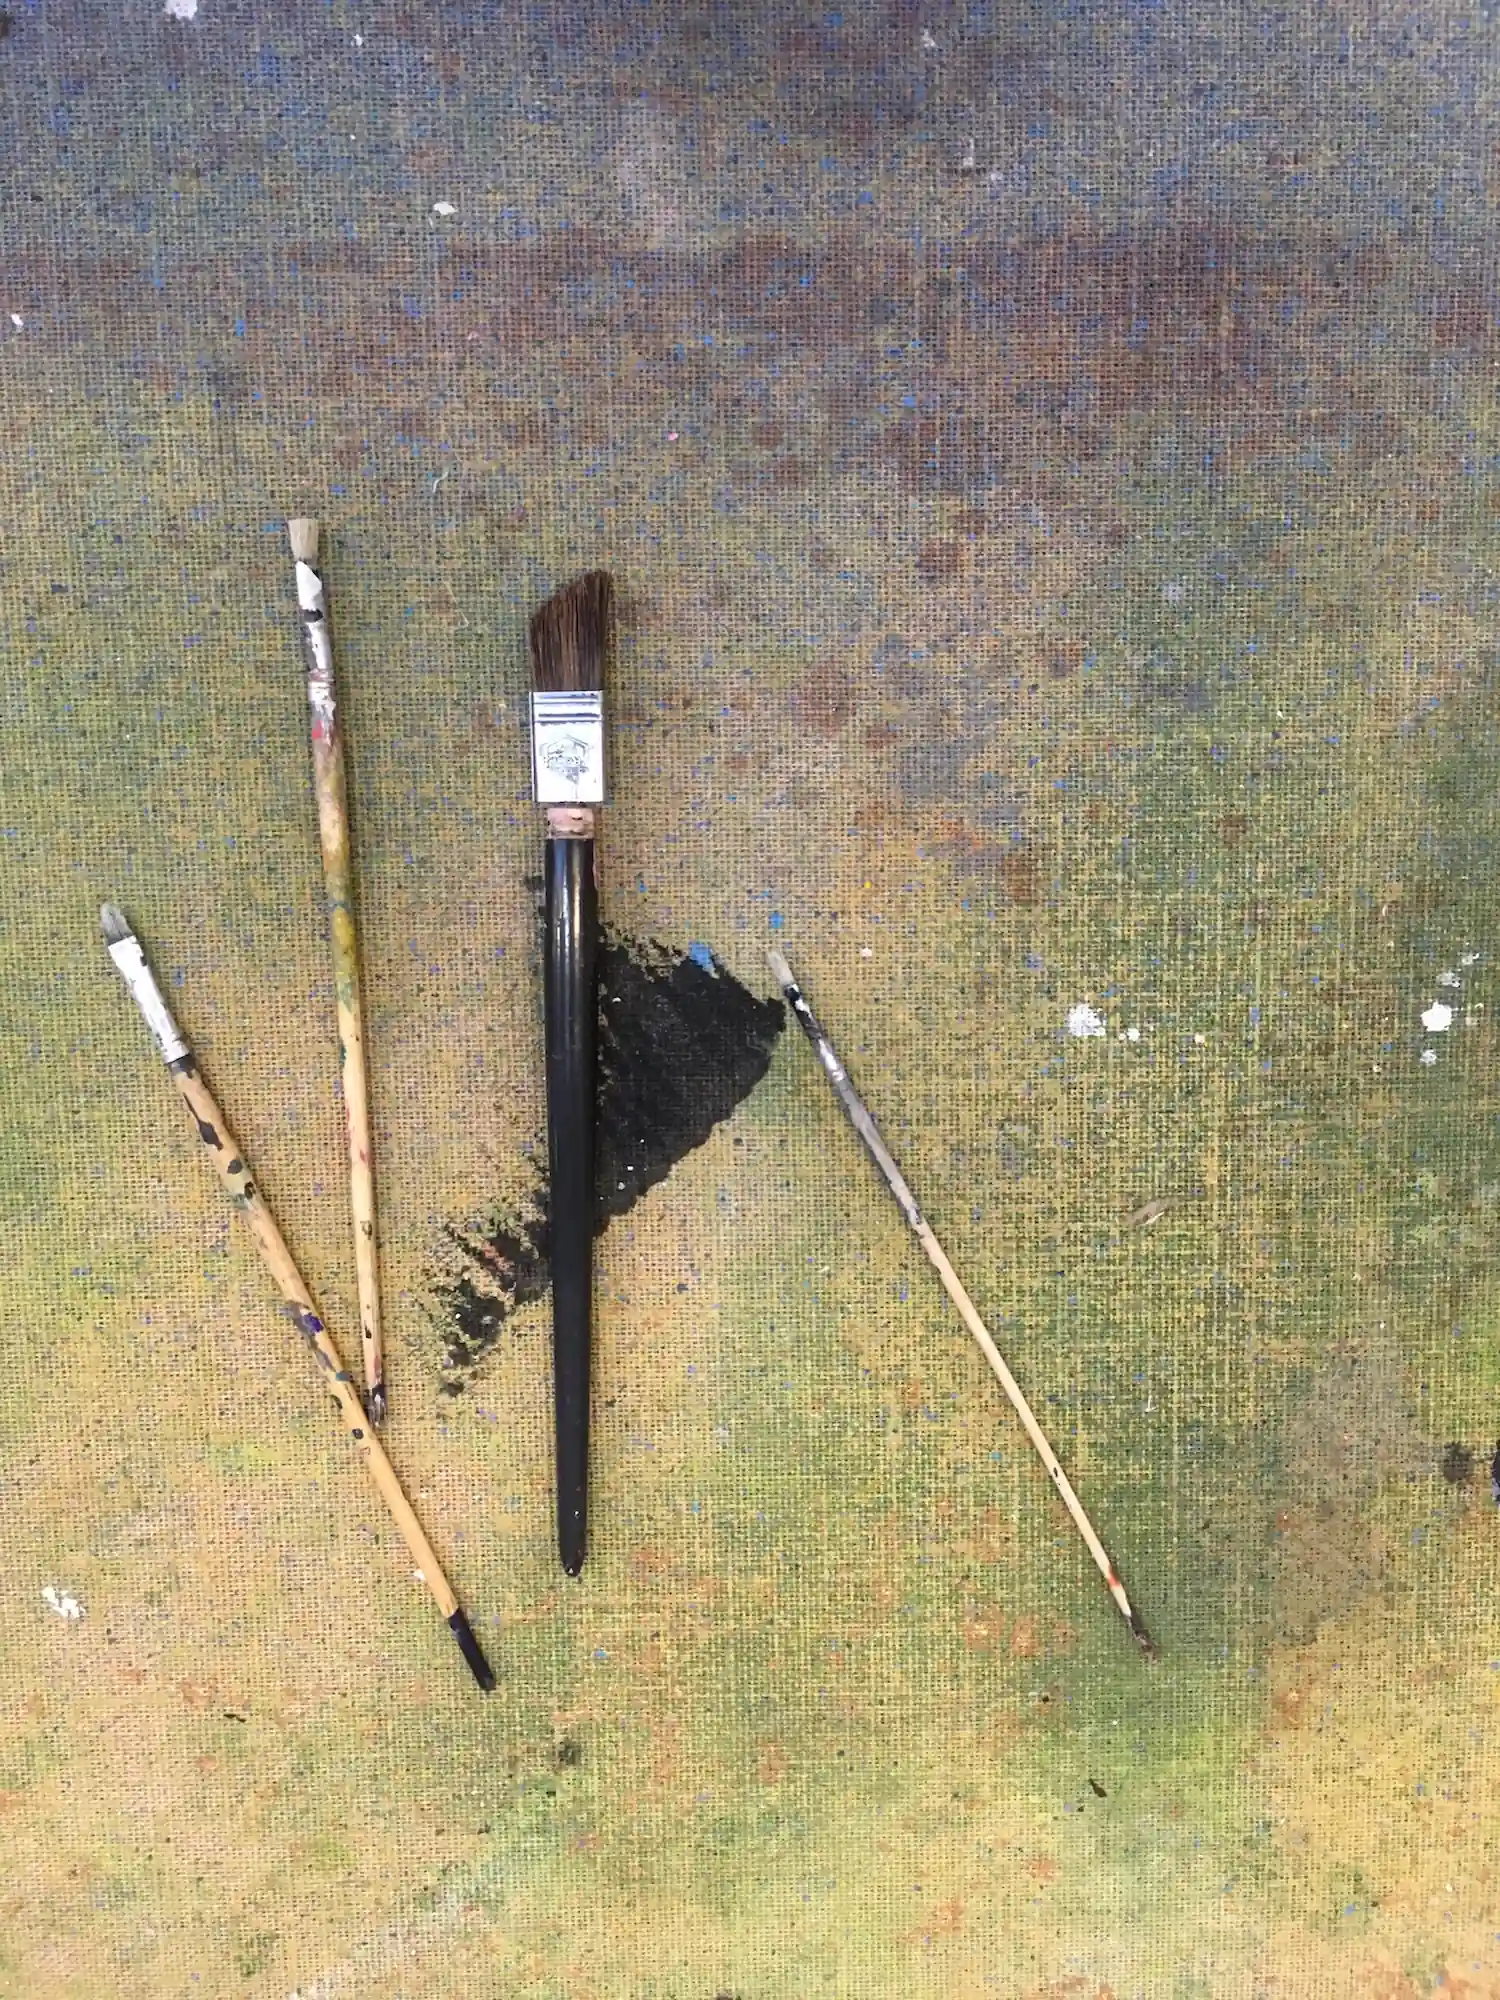
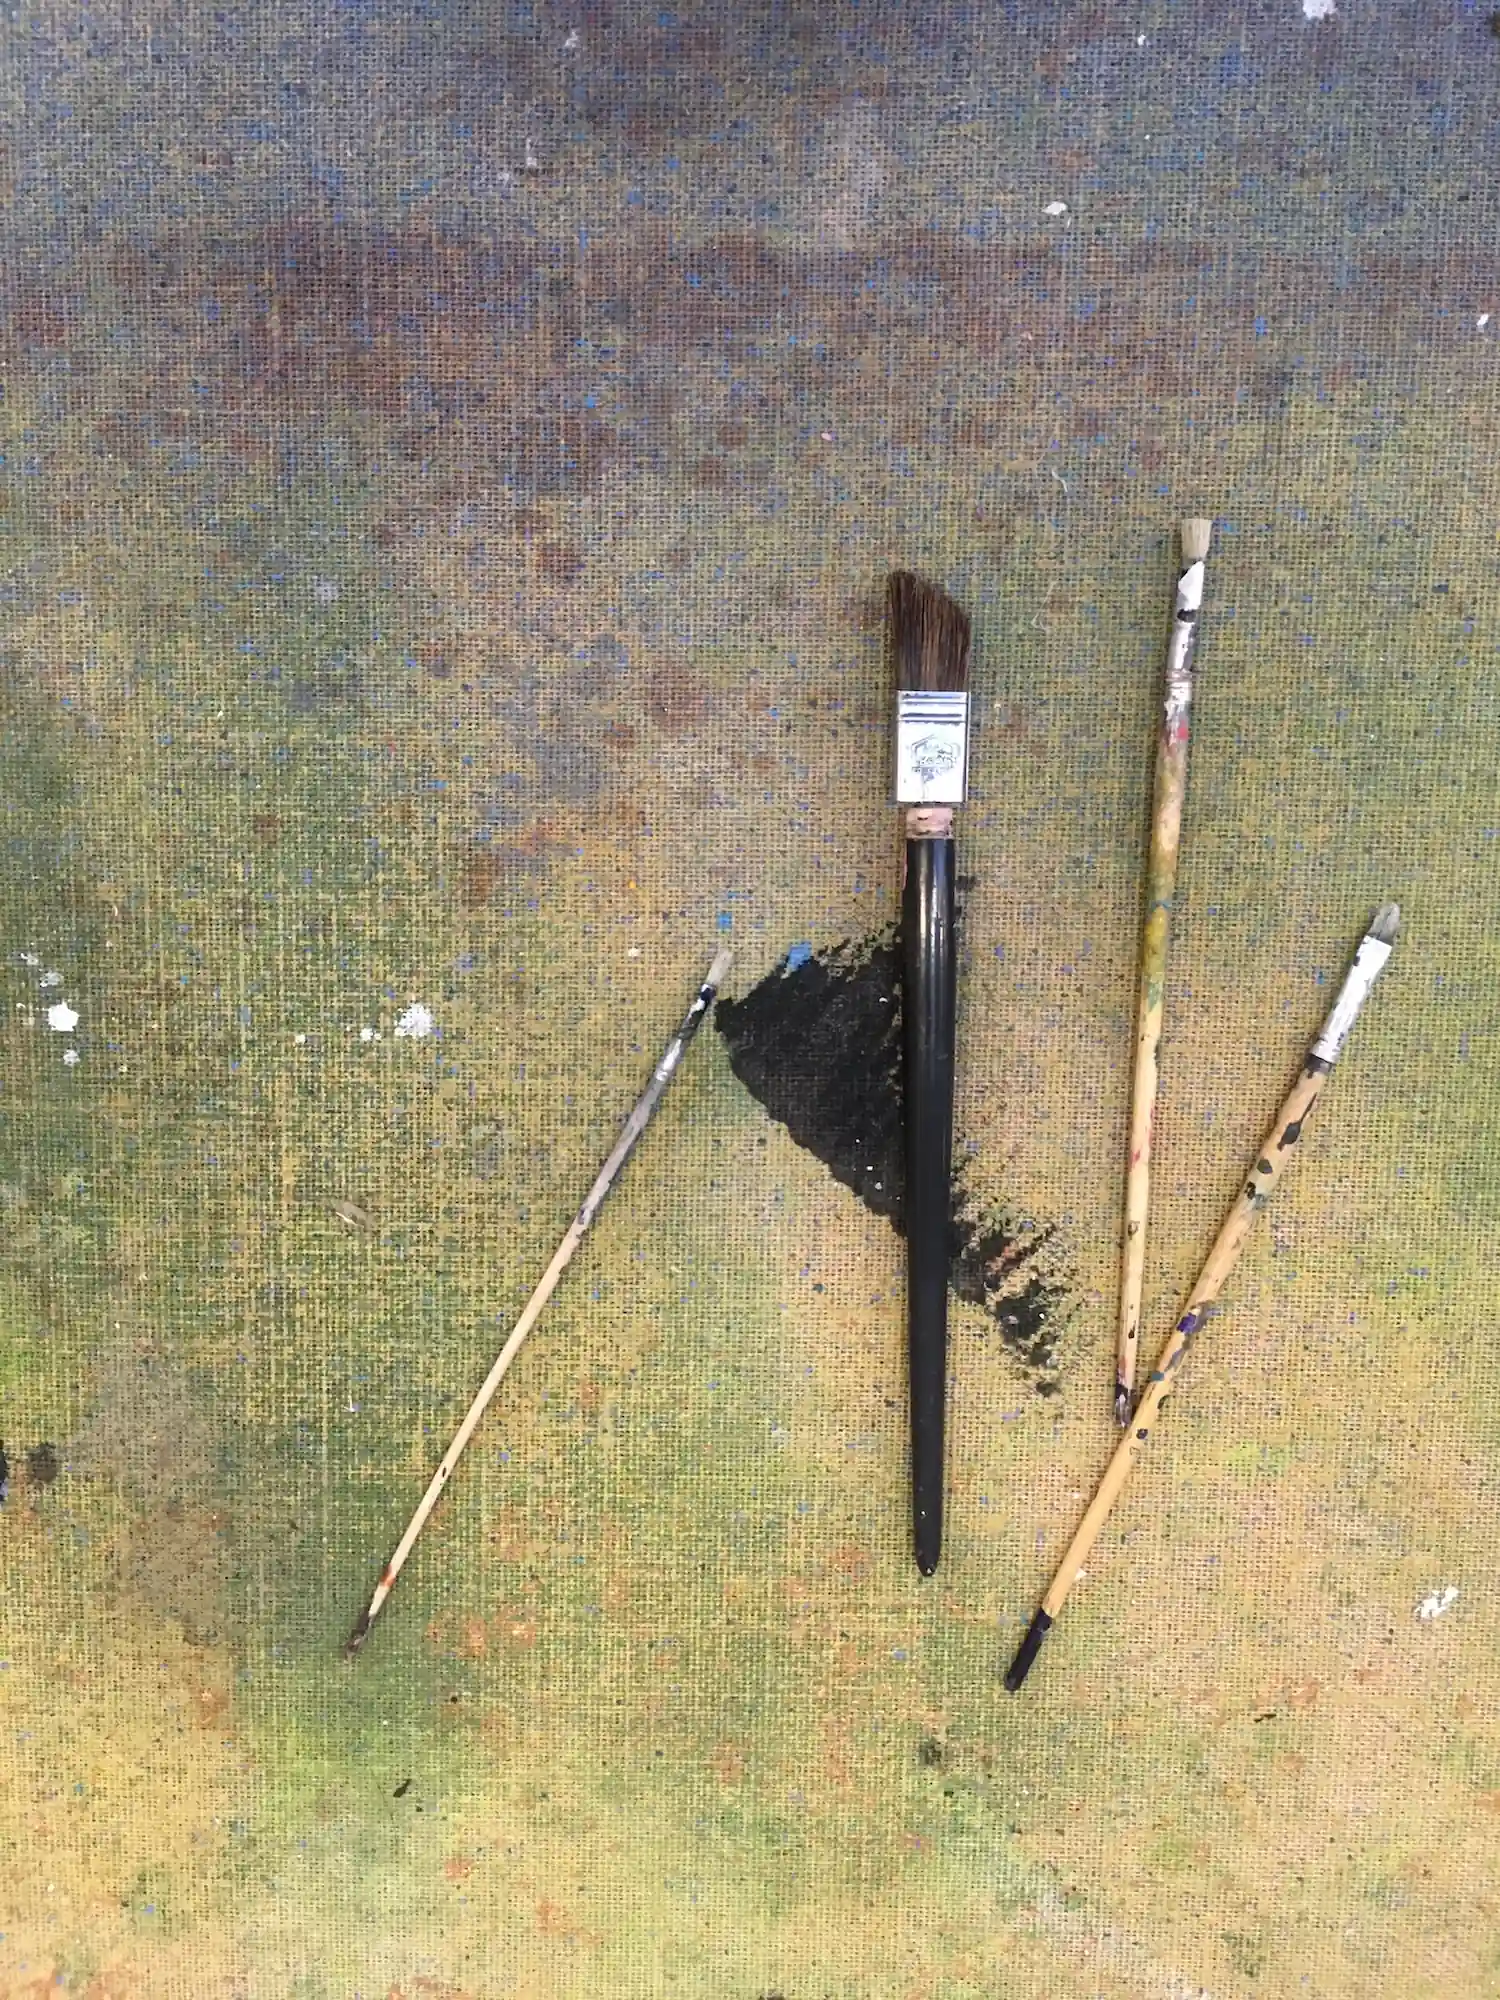
Improve README content, update text and images, fix lightbox issue with figure-based images

diff --git a/styles.css b/styles.css
@@ -46,6 +46,7 @@
   font-weight: 700;
   font-display: swap;
 }
+
 /* ==========================================================
    RESET
    ========================================================== */
@@ -124,7 +125,8 @@ main {
    ========================================================== */
 
 header {
-  position: sticky; /* sticky header stays on top while scrolling */
+  position: sticky;
+  /* sticky header stays on top while scrolling */
   top: 0;
   background-color: white;
   z-index: 100;
@@ -175,6 +177,7 @@ ul li a.active {
   background: #f4edea;
   border: 1px solid rgba(0, 0, 0, 0.05);
 }
+
 .option {
   flex: 1;
   text-align: center;
@@ -265,6 +268,24 @@ ul li a.active {
   }
 }
 
+.dropdown-gallery a {
+  font-size: 0.9rem;
+  opacity: 0.8;
+}
+
+@media (max-width: 767px) {
+
+  .navigation-list {
+    display: flex;
+    flex-direction: column;
+    align-items: center;
+  }
+
+  .navigation-list>li {
+    text-align: center;
+  }
+}
+
 /* ==========================================================
    Dropdown-Gallery
    ========================================================== */
@@ -272,6 +293,7 @@ ul li a.active {
 .has-dropdown-gallery {
   position: relative;
 }
+
 /* dropdown hidden by default */
 .dropdown-gallery {
   display: none;
@@ -306,9 +328,17 @@ ul li a.active {
   .dropdown-gallery {
     display: flex;
     flex-direction: column;
+
     position: static;
+    gap: 0.3rem;
+    margin-top: 0.5rem;
+    padding-left: 0.5rem;
     box-shadow: none;
-    padding-left: 1rem;
+  }
+
+  .dropdown-gallery li a {
+    font-size: 0.9rem;
+    opacity: 0.8;
   }
 }
 
@@ -330,7 +360,7 @@ footer ul li a {
   display: block;
   color: #646464;
   padding: 1rem 3rem;
-    border-radius: 900px;
+  border-radius: 900px;
 }
 
 footer ul li a:hover,
@@ -372,6 +402,7 @@ footer ul li button:hover {
   text-align: left;
   padding-right: clamp(1rem, 6vw, 8rem);
 }
+
 .hero-text-2 {
   text-align: right;
   padding-left: clamp(0rem, 2vw, 4rem);
@@ -432,6 +463,7 @@ footer ul li button:hover {
 }
 
 @media (max-width: 767px) {
+
   .hero,
   .hero-2 {
     gap: 2rem;
@@ -669,10 +701,9 @@ footer ul li button:hover {
 
 .subnav ul {
   display: grid;
-  grid-template-columns: repeat(
-    3,
-    1fr
-  ); /* grid-system with 3 columns for each navigation */
+  grid-template-columns: repeat(3,
+      1fr);
+  /* grid-system with 3 columns for each navigation */
   gap: clamp(0rem, 2vw, 3rem);
   justify-content: center;
 }
@@ -693,6 +724,7 @@ footer ul li button:hover {
 .subnav li:nth-child(1) {
   margin-right: -2rem;
 }
+
 /* move element down */
 .subnav li:nth-child(2) {
   margin-top: clamp(8rem, 15vw, 18rem);
@@ -705,17 +737,17 @@ footer ul li button:hover {
 
 .organic-img-3,
 .organic-img-3 img {
-  border-radius: 44% 56% 59% 41% / 49% 47% 53% 51%;
+  border-radius: 54% 46% 44% 56% / 54% 63% 37% 46%;
 }
 
 .organic-img-4,
 .organic-img-4 img {
-  border-radius: 31% 69% 47% 53% / 44% 47% 53% 56%;
+  border-radius: 57% 43% 52% 48% / 54% 48% 52% 46%;
 }
 
 .organic-img-5,
 .organic-img-5 img {
-  border-radius: 53% 47% 54% 46% / 40% 56% 44% 60%;
+  border-radius: 46% 54% 41% 59% / 60% 54% 46% 40%;
 }
 
 .organic-img-3,
@@ -733,7 +765,8 @@ footer ul li button:hover {
 
 @media (max-width: 767px) {
   .subnav ul {
-    grid-template-columns: 1fr; /* change to 1 column */
+    grid-template-columns: 1fr;
+    /* change to 1 column */
   }
 
   .subnav li:nth-child(1) {
@@ -798,6 +831,7 @@ footer ul li button:hover {
 
 /* 2 columns (tablet) */
 @media (max-width: 1023px) {
+
   #gallery,
   #gallery-abstract-list {
     grid-template-columns: repeat(2, 1fr);
@@ -806,10 +840,12 @@ footer ul li button:hover {
 
 /* 1 column (smartphone) */
 @media (max-width: 767px) {
+
   #gallery,
   #gallery-abstract-list {
     grid-template-columns: 1fr;
   }
+
   .gallery-abstract ul,
   #gallery {
     margin-inline: 3rem;
@@ -853,6 +889,10 @@ footer ul li button:hover {
   border-radius: 4px;
 }
 
+#lightbox figcaption:empty {
+  display: none;
+}
+
 /* ==========================================================
    Lightbox
    ========================================================== */
@@ -865,8 +905,14 @@ footer ul li button:hover {
   padding: 0;
 }
 
-#lightbox img {
+#lightbox figure {
+  margin: 0;
   max-width: 90vw;
+  max-height: 90vh;
+}
+
+#lightbox img {
+  max-width: 100%;
   max-height: 90vh;
   object-fit: contain;
   display: block;
@@ -917,6 +963,7 @@ footer ul li button:hover {
 .lightbox-next {
   right: 1rem;
 }
+
 /* hover effect */
 .lightbox-close:hover,
 .lightbox-prev:hover,
@@ -946,8 +993,7 @@ footer ul li button:hover {
 
 .studio-insights article {
   background-color: #f6efeb;
-  padding: clamp(0.8rem, 2vw, 3rem) clamp(1rem, 2.5vw, 4rem)
-    clamp(1rem, 2.5vw, 4rem);
+  padding: clamp(0.8rem, 2vw, 3rem) clamp(1rem, 2.5vw, 4rem) clamp(1rem, 2.5vw, 4rem);
 }
 
 .studio-insights {
@@ -1003,12 +1049,20 @@ footer ul li button:hover {
 .organic-img-1 {
   margin-top: clamp(4rem, 8vw, 8rem);
   margin-inline: auto;
+  transform: translateX(clamp(6rem, 9vw, 12rem));
   border: 2px solid #c68e7e;
   padding: 0.5rem;
   flex-shrink: 0;
   border-radius: 63% 37% 44% 56% / 50% 52% 48% 50%;
   width: clamp(20rem, 40vw, 40rem);
   height: clamp(20rem, 40vw, 40rem);
+}
+
+@media (max-width: 767px) {
+  .organic-img-1 {
+    margin-inline: auto;
+    transform: none;
+  }
 }
 
 .organic-img-1 img {
@@ -1103,7 +1157,8 @@ footer ul li button:hover {
 }
 
 #message {
-  grid-column: 1 / -1; /* span both columns */
+  grid-column: 1 / -1;
+  /* span both columns */
 }
 
 .contact-form button {
@@ -1147,6 +1202,7 @@ footer ul li button:hover {
   list-style: decimal;
   padding-left: 1.5rem;
 }
+
 .policy-text li {
   color: #6f4e4f;
   line-height: 1.8;

diff --git a/index.html b/index.html
@@ -87,8 +87,8 @@
           <li>
             <figure class="organic-img-3">
               <img
-                src="images/large/other/brushes.webp"
-                alt="Paint brushes lying on the paint-covered floor of a theatre paint studio."
+                src="images/large/other/fromabove.webp"
+                alt="Top view of a paint mixing trolley with various paint pots and water containers in a theatre paint studio."
                 width="400"
                 height="400"
               />
@@ -98,8 +98,8 @@
           <li>
             <figure class="organic-img-4">
               <img
-                src="images/large/other/fromabove.webp"
-                alt="Top view of a paint mixing trolley with various paint pots and water containers in a theatre paint studio."
+                src="images/large/other/me_painting.webp"
+                alt="Theatre painter painting a stage set backdrop inside a studio."
                 width="400"
                 height="400"
               />
@@ -109,8 +109,9 @@
           <li>
             <figure class="organic-img-5">
               <img
-                src="images/large/other/color.webp"
-                alt="Close-up of mixed paint on a scenic painter’s palette surface."
+                src="images/large/other/brushes.webp"
+                alt="Paint brushes lying on the paint-covered floor of a theatre paint studio."
+                
                 width="400"
                 height="400"
               />

diff --git a/sleepingbeauty.html b/sleepingbeauty.html
@@ -14,7 +14,8 @@
     <main>
       <article class="gallery-text-subpage">
         <h1 id="sleeping_beauty_title_1"></h1>
-        <p id="sleeping_beauty_intro"></p>
+        <p id="sleeping_beauty_intro_1"></p>
+        <p id="sleeping_beauty_intro_2"></p>
       </article>
 
       <ul id="gallery">

diff --git a/README.md b/README.md
@@ -1,28 +1,36 @@
 # 🚀 Projekt: Web-Programmierung - Portfolio einer Theatermalerin
 
-## 📌 Projektbeschreibung
-Diese Website dient als **berufliche und persönliche Online-Präsenz** für eine Theatermalerin.
-Sie präsentiert den beruflichen Werdegang, vermittelt Einblicke in die Arbeitsweise und bietet eine Galerie mit ausgewählten Fotos aus dem Bereich der Theatermalerei.
+## 🌐 Live Demo
 
-## 🛠️ Technologien
+[![Live Demo](https://img.shields.io/badge/Live%20Website-View-8c6b5a?style=for-the-badge)](https://iu-webprogrammierung.github.io/webprogrammierung-HilbertAnka/)
+
+---
+
+## ⭐ Bewertungsrelevante Leistungen 
+
+- **Mehrsprachigkeit (DE/EN)** via JSON-Translation und `localStorage`-persistenter Sprachwahl
+- **Navigation mit Dropdown-System** inkl. JavaScript-Interaktion und State Handling
+- **JavaScript Lightbox-System** mit Navigation (Keyboard Support, Next/Prev)
+- **Interaktive UI-Elemente** (Hover States ...)
+- **Wiederverwendbare UI-Komponenten** (Header & Footer) mit konsistenter Gestaltung
+- **Weboptimierte Medien** durch WebP-Formate und eingebettetes YouTube-Video
+- **Formular mit HTML5-Validierung** (required & E-Mail-Typ)
+
+---
+
+## 🛠️ Technische Basis
 
 - **HTML5** (semantische Tags)
 - **CSS3** (Flexbox, CSS Grid, Media Queries)
-- **Responsive Design**
-- **Git & GitHub** (Versionskontrolle mit regelmäßigen Commits)
-- **Barrierefreiheit**: Semantische HTML-Struktur, alt-Texte
+- **Responsive Design** (Breakpoints: 768px und 1024px)
+- **JavaScript** für Interaktivität und UI-Logik
 
+---
 
-## 📱 Layout & Responsivität
-
-- **Breakpoint**: 768px (Mobile bis 767px, Desktop ab 768px)
-- **Layouts**: Ein- und zweispaltig, abhängig von Bildschirmgröße
-- **Verwendung von Flexbox und CSS Grid** für Anordnung
-
-## 📄 Inhalte
+## 📄 Seitenstruktur
 
 - **Home**: Einführung, Galerie-Teaser, Video, Verlinkung zu weiteren Unterseiten
-- **Gallery**: Fotos in Kacheln mit Links zu 6 weiteren Unterseiten
+- **Gallery**: Fotos in Kacheln mit Links zu 6 weiteren Unterseiten (drei-, zwei- und einspaltig)
 - **Studio Insights**: Schritt-für-Schritt-Erklärung der Prospektherstellung
 - **About Me**: CV, Foto
 - **Contact**: Kontaktformular